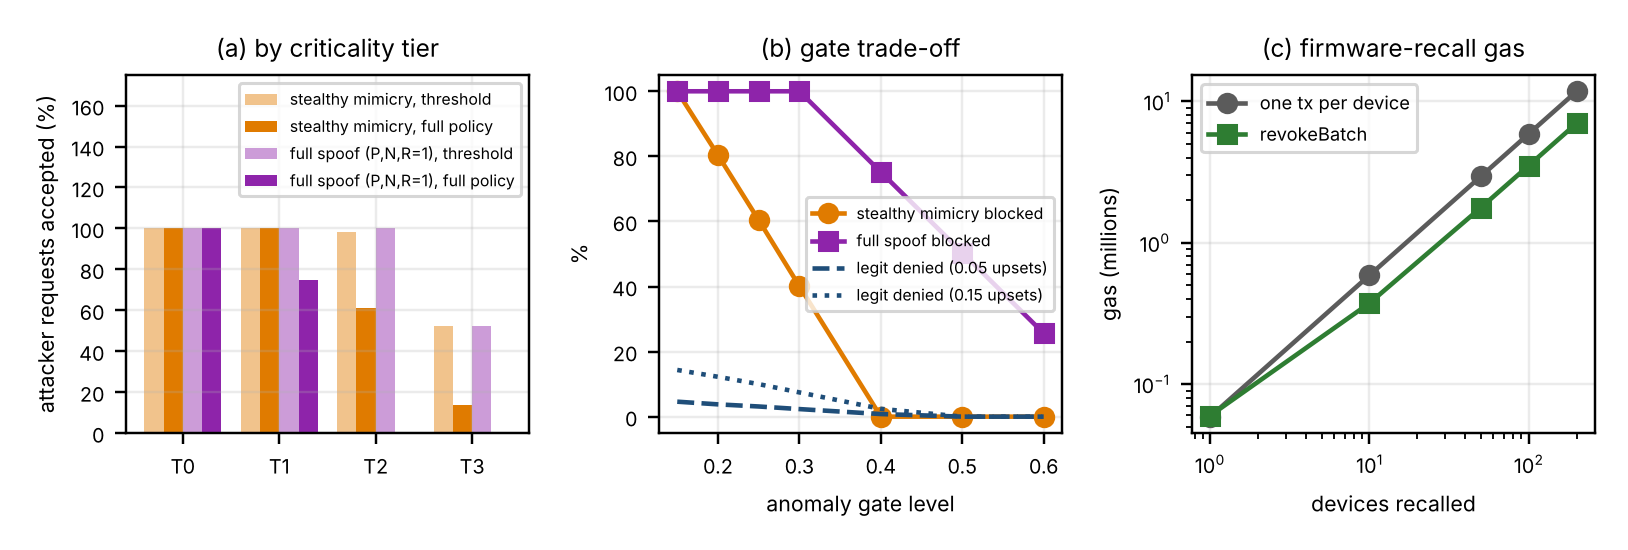
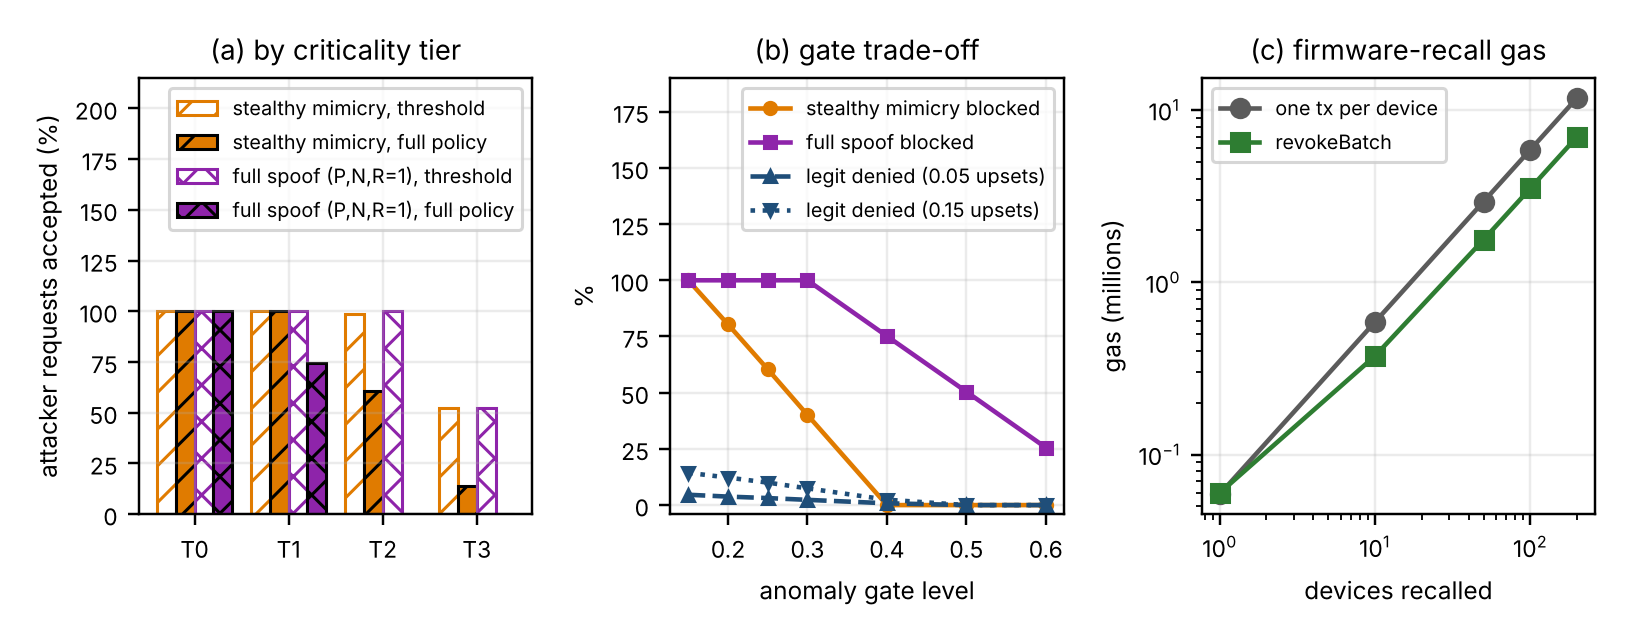
Accessibility: figure 2 readable without colour, larger text, caption descriptions, PDF language/title metadata, DOCX alt text
Claude-Session: https://claude.ai/code/session_01RqUX5WFUEvAQJTWicthF65

diff --git a/sim/generate_iiot_figures.py b/sim/generate_iiot_figures.py
@@ -41,31 +41,31 @@ def arch():
 
 def results():
     d = json.load(open(os.path.join(R, "iiot_metrics.json"))); ev = json.load(open(os.path.join(R, "evm_iiot_gas.json")))
-    fig, ax = plt.subplots(1, 3, figsize=(7.4, 2.5))
+    fig, ax = plt.subplots(1, 3, figsize=(7.4, 2.9))
     # (a) attacker acceptance by tier
     tiers = list(d["X1_tiers"]["results"]); lab = ["T0", "T1", "T2", "T3"]
     import numpy as np
     x = np.arange(4); w = .2
-    for j, (atk, col) in enumerate([("stealthy mimicry", OR), ("full spoof (P,N,R=1)", "#8e24aa")]):
+    for j, (atk, col, hat) in enumerate([("stealthy mimicry", OR, "//"), ("full spoof (P,N,R=1)", "#8e24aa", "xx")]):
         a1 = [d["X1_tiers"]["results"][t]["attack_accepted_pct"][atk]["threshold_only"] for t in tiers]
         a2 = [d["X1_tiers"]["results"][t]["attack_accepted_pct"][atk]["full_policy"] for t in tiers]
-        ax[0].bar(x + (j * 2) * w - 1.5 * w, a1, w, color=col, alpha=.45, label=f"{atk}, threshold")
-        ax[0].bar(x + (j * 2 + 1) * w - 1.5 * w, a2, w, color=col, label=f"{atk}, full policy")
+        ax[0].bar(x + (j * 2) * w - 1.5 * w, a1, w, color="white", edgecolor=col, hatch=hat, lw=1.0, label=f"{atk}, threshold")
+        ax[0].bar(x + (j * 2 + 1) * w - 1.5 * w, a2, w, color=col, edgecolor="black", hatch=hat, lw=1.0, label=f"{atk}, full policy")
     ax[0].set_xticks(x); ax[0].set_xticklabels(lab); ax[0].set_ylabel("attacker requests accepted (%)"); ax[0].set_title("(a) by criticality tier", fontsize=8)
-    ax[0].legend(fontsize=5.2, loc="upper right"); ax[0].set_ylim(0, 175)
+    ax[0].legend(fontsize=6.5, loc="upper right"); ax[0].set_ylim(0, 215)
     # (b) gate sweep
     rows = d["X2_gate_sweep"]["upset_rate_0.05"]; g = [r["gate"] for r in rows if r["gate"] < 1]
-    ax[1].plot(g, [r["stealthy_blocked_pct"] for r in rows if r["gate"] < 1], "o-", color=OR, label="stealthy mimicry blocked")
-    ax[1].plot(g, [r["full_spoof_blocked_pct"] for r in rows if r["gate"] < 1], "s-", color="#8e24aa", label="full spoof blocked")
-    for u, ls in (("upset_rate_0.05", "--"), ("upset_rate_0.15", ":")):
-        ax[1].plot(g, [r["legit_denied_pct"] for r in d["X2_gate_sweep"][u] if r["gate"] < 1], ls, color=BLUE, label=f"legit denied ({u.split('_')[-1]} upsets)")
-    ax[1].set_xlabel("anomaly gate level"); ax[1].set_ylabel("%"); ax[1].set_title("(b) gate trade-off", fontsize=8); ax[1].legend(fontsize=5.2, loc="center right")
+    ax[1].plot(g, [r["stealthy_blocked_pct"] for r in rows if r["gate"] < 1], "o-", color=OR, ms=4, label="stealthy mimicry blocked")
+    ax[1].plot(g, [r["full_spoof_blocked_pct"] for r in rows if r["gate"] < 1], "s-", color="#8e24aa", ms=4, label="full spoof blocked")
+    for u, ls in (("upset_rate_0.05", "^--"), ("upset_rate_0.15", "v:")):
+        ax[1].plot(g, [r["legit_denied_pct"] for r in d["X2_gate_sweep"][u] if r["gate"] < 1], ls, color=BLUE, ms=4, label=f"legit denied ({u.split('_')[-1]} upsets)")
+    ax[1].set_xlabel("anomaly gate level"); ax[1].set_ylabel("%"); ax[1].set_title("(b) gate trade-off", fontsize=8); ax[1].set_ylim(-4, 190); ax[1].legend(fontsize=6.5, loc="upper right")
     # (c) recall
     r = ev["recall"]; k = [x_["devices"] for x_ in r]
     ax[2].plot(k, [x_["individual_total_gas"] / 1e6 for x_ in r], "o-", color=GR, label="one tx per device")
     ax[2].plot(k, [x_["batch_gas"] / 1e6 for x_ in r], "s-", color=GN, label="revokeBatch")
-    ax[2].set_xscale("log"); ax[2].set_yscale("log"); ax[2].set_xlabel("devices recalled"); ax[2].set_ylabel("gas (millions)"); ax[2].set_title("(c) firmware-recall gas", fontsize=8); ax[2].legend(fontsize=6)
-    for a in ax: a.tick_params(labelsize=6.5); a.xaxis.label.set_size(7); a.yaxis.label.set_size(7); a.grid(alpha=.25)
+    ax[2].set_xscale("log"); ax[2].set_yscale("log"); ax[2].set_xlabel("devices recalled"); ax[2].set_ylabel("gas (millions)"); ax[2].set_title("(c) firmware-recall gas", fontsize=8); ax[2].legend(fontsize=6.5)
+    for a in ax: a.tick_params(labelsize=7.5); a.xaxis.label.set_size(8); a.yaxis.label.set_size(8); a.title.set_size(9); a.grid(alpha=.25)
     fig.tight_layout(); fig.savefig(os.path.join(F, "fig8_iiot_results.png"), dpi=220); plt.close(fig)
 
 if __name__ == "__main__":

diff --git a/paper/build_docx.py b/paper/build_docx.py
@@ -192,11 +192,17 @@ children = list(B)
 first_h = next(i for i, c in enumerate(children) if c.tag == qn("w:p") and c.find(".//" + qn("w:pStyle")) is not None and c.find(".//" + qn("w:pStyle")).get(qn("w:val")) == "Heading1")
 B.insert(list(B).index(children[first_h]), sect_par(1, cont=False))
 
+ALT = ["Architecture diagram: field zone (sensors, PLCs, legacy devices behind a protocol gateway, zone policy enforcement point), site operations zone (trust engine, trust oracle, local chain replica) and consortium zone (IdentityRegistry, ZeroTrustAccess, RevocationGovernance contracts), linked by event synchronisation.",
+       "Three charts: (a) bar chart of attacker requests accepted per criticality tier T0-T3 for threshold-only versus full policy, hatched by attack type; (b) line chart of attacks blocked and legitimate requests denied against anomaly gate level; (c) log-log line chart of gas to recall devices, one transaction per device versus revokeBatch."]
 # image sizing: column images 3.05in wide; wide image (fig5) full width
 for dr in B.iter("{http://schemas.openxmlformats.org/drawingml/2006/wordprocessingDrawing}inline"):
     ext = dr.find("{http://schemas.openxmlformats.org/drawingml/2006/wordprocessingDrawing}extent")
     cx, cy = int(ext.get("cx")), int(ext.get("cy"))
     alt = "".join(dr.itertext())
+    dp = dr.find("{http://schemas.openxmlformats.org/drawingml/2006/wordprocessingDrawing}docPr")
+    if dp is not None:
+        nth = globals().setdefault("_nimg", [0]); nth[0] += 1
+        dp.set("descr", ALT[min(nth[0], len(ALT)) - 1]); dp.set("title", "Figure %d" % nth[0])
     pic = dr.find(".//{http://schemas.openxmlformats.org/drawingml/2006/main}blip")
     wide = True   # both figures are full-width
     newcx = 5200000 if wide else 3000000
@@ -279,6 +285,8 @@ for figlabel in ("Fig. 1.", "Fig. 2."):
 final = B.find(qn("w:sectPr"))
 if final is not None: B.remove(final)
 B.append(sect(2, cont=True))
+doc.core_properties.language = "en-US"
+doc.core_properties.author = ""
 doc.core_properties.title = "A Blockchain-Enabled Zero Trust Architecture for Industrial IoT Identity Management: Tiered Continuous Authorization and Quorum-Governed Revocation"
 doc.save(OUT)
 print("saved", OUT)

diff --git a/paper/sec_evaluation.tex b/paper/sec_evaluation.tex
@@ -81,7 +81,7 @@ Sweeping the gate on the real scores, a gate of 0.05 denies 3.6\% of legitimate 
 \begin{figure*}[t]
 \centering
 \includegraphics[width=0.86\textwidth]{../figures/fig8_iiot_results.png}
-\caption{Industrial extensions: (a) attacker requests accepted per criticality tier under threshold-only and full policy; (b) anomaly-gate trade-off for 5\% and 15\% legitimate process-upset rates; (c) gas to recall devices with one transaction per device versus \texttt{revokeBatch}.}
+\caption{Industrial extensions: (a) attacker requests accepted per criticality tier under threshold-only and full policy; (b) anomaly-gate trade-off for 5\% and 15\% legitimate process-upset rates; (c) gas to recall devices with one transaction per device versus \texttt{revokeBatch}. Text description: in (a) the full policy accepts fewer attacker requests than the threshold-only policy at T1--T3 and none of the full-spoof requests at T3; in (b) the share of attacks blocked rises with the gate level while the share of legitimate requests denied stays below about 15\%; in (c) recall by \texttt{revokeBatch} uses fewer gas than one transaction per device at every fleet size. Bars and lines are distinguished by hatching and markers as well as colour.}
 \label{fig:iiotres}
 \end{figure*}
 

diff --git a/paper/main.tex b/paper/main.tex
@@ -1,3 +1,4 @@
+\DocumentMetadata{lang=en-US, pdfversion=1.7}
 \documentclass[10pt,twocolumn]{article}
 \usepackage[top=0.75in,bottom=0.75in,left=0.68in,right=0.68in,columnsep=0.22in]{geometry}
 \usepackage{mathtools}
@@ -9,7 +10,7 @@
 \usepackage{booktabs}
 \usepackage{array}
 \usepackage{caption}
-\usepackage[colorlinks=true,citecolor=blue!55!black,urlcolor=blue!55!black,linkcolor=blue!55!black]{hyperref}
+\usepackage[pdftitle={A Blockchain-Enabled Zero Trust Architecture for Industrial IoT Identity Management: Tiered Continuous Authorization and Quorum-Governed Revocation},pdfsubject={Industrial IoT identity management, Zero Trust, blockchain},pdfkeywords={Industrial IoT; Zero Trust; Blockchain; Decentralized Identifiers; Revocation Governance},pdflang={en-US},colorlinks=true,citecolor=blue!55!black,urlcolor=blue!55!black,linkcolor=blue!55!black]{hyperref}
 \usepackage{titlesec}
 \usepackage{enumitem}
 \usepackage{balance}

diff --git a/paper/sec_architecture.tex b/paper/sec_architecture.tex
@@ -6,7 +6,7 @@ Figure~\ref{fig:arch} shows the design. Devices and a protocol gateway sit in th
 \begin{figure*}[t]
 \centering
 \includegraphics[width=0.62\textwidth]{../figures/fig7_iiot_arch.png}
-\caption{Architecture of the blockchain-enabled Zero Trust system for Industrial IoT identity management, organized by plant zone.}
+\caption{Architecture of the blockchain-enabled Zero Trust system for Industrial IoT identity management, organized by plant zone. Text description: three stacked zones; in the field zone, sensors, PLCs and legacy devices reach a protocol gateway and a zone policy enforcement point (fast path plus audited path); in the site operations zone, a trust engine and trust oracle feed a local replica of the chain; the consortium zone holds the three contracts (IdentityRegistry, ZeroTrustAccess, RevocationGovernance), and the replica syncs from them by events.}
 \label{fig:arch}
 \end{figure*}
 
